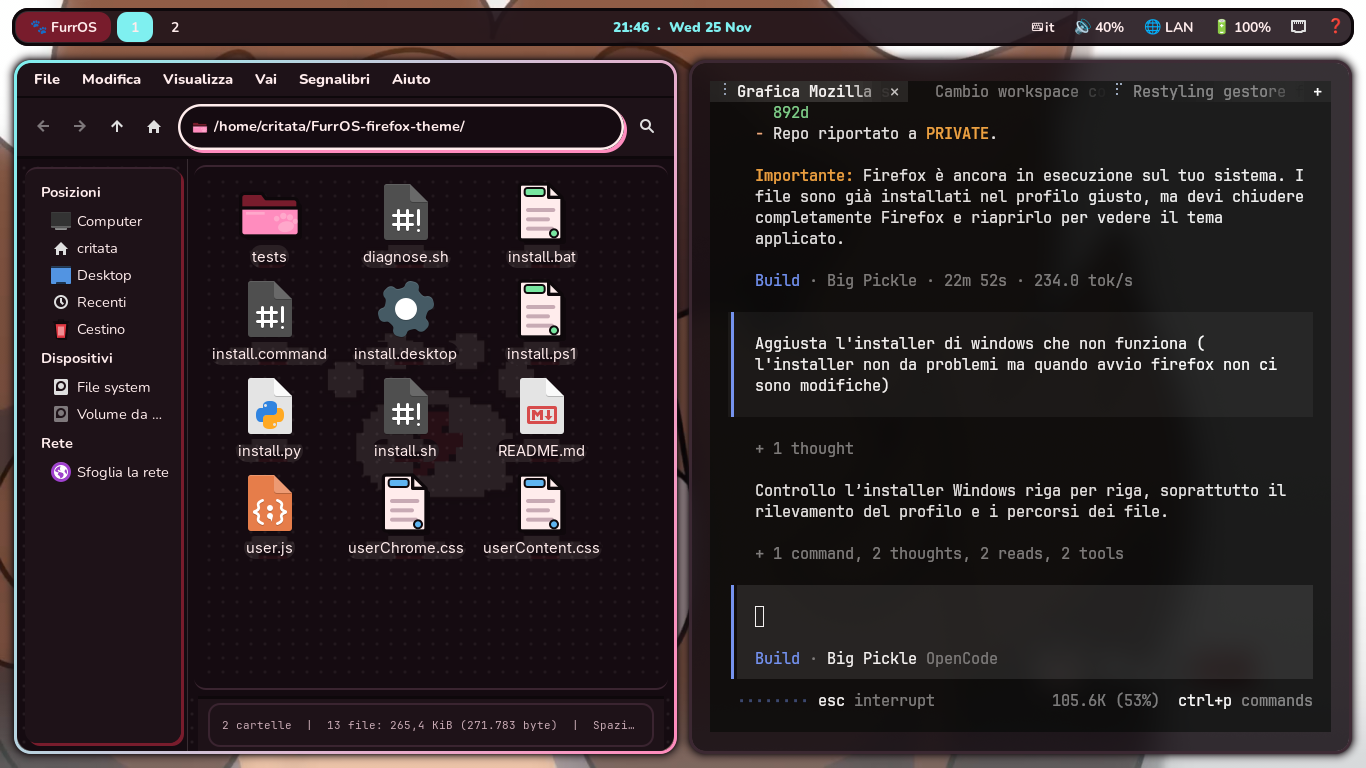
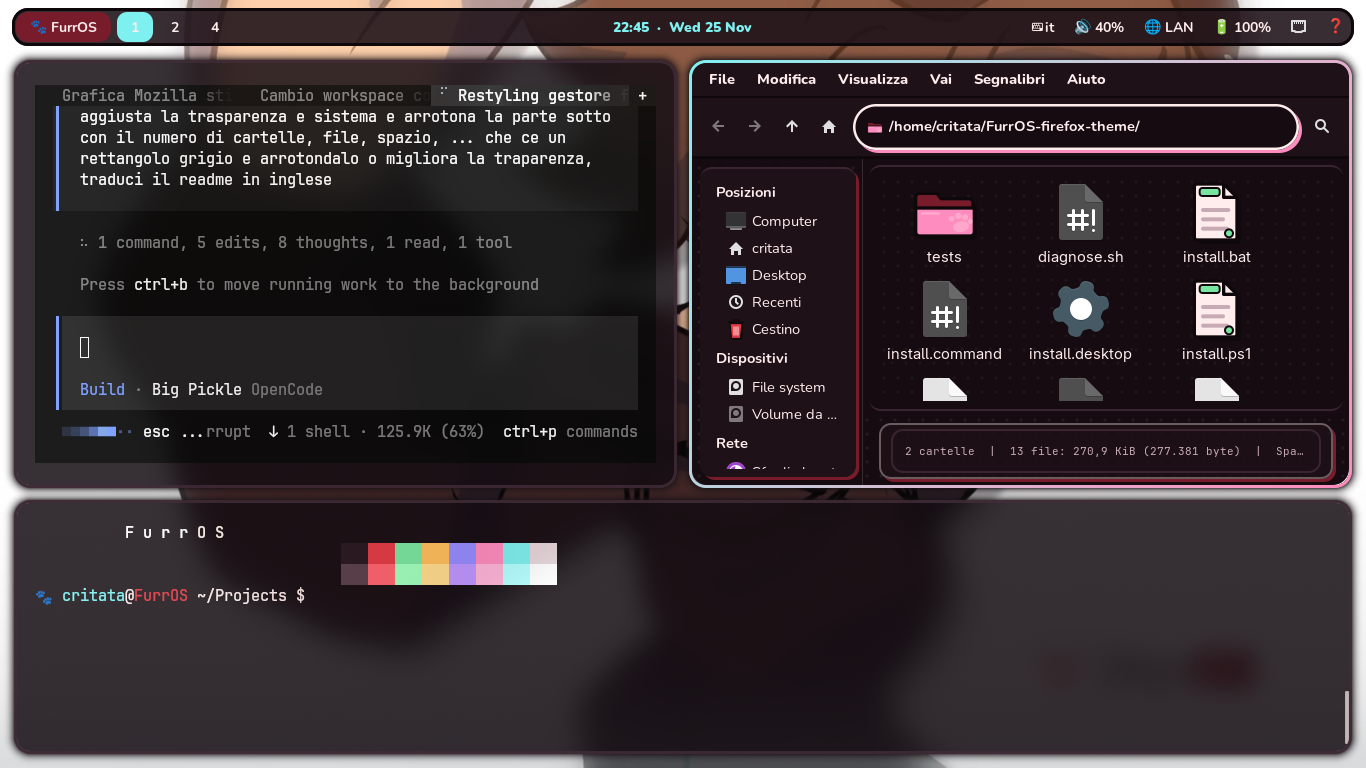
Fix selection rendering, remove filename watermark, round info area, translate README to English

diff --git a/gtk3/gtk-3.0/gtk.css b/gtk3/gtk-3.0/gtk.css
@@ -436,11 +436,9 @@ iconview.view:selected,
   color: @furr_ink;
 }
 
-treeview.view:hover,
-iconview.view:hover,
-.view:hover {
-  background-color: @furr_surface;
-}
+/* Nessun :hover sull'intera vista: in GTK3 colpisce il widget intero e fa
+   "saltare" l'evidenziazione delle righe. L'hover delle singole righe è
+   gestito da GTK, qui lasciamo solo :selected. */
 
 treeview.view:focus,
 iconview.view:focus,
@@ -460,7 +458,8 @@ iconview.view:selected label,
 }
 
 /* Thunar's standard view is the scrolled window around the file list.
-   It gets a "paper" card with the website's dot texture and a faint paw. */
+   Nessun watermark o immagine sotto i nomi dei file: solo la texture a punti,
+   mantenuta molto leggera per non confondere testo e selezione. */
 .standard-view {
   background-color: @furr_night;
   border: 2px solid @furr_surface_2;
@@ -474,12 +473,9 @@ iconview.view:selected label,
 .standard-view iconview.view,
 .standard-view treeview.view {
   background-color: @furr_night;
-  background-image:
-    radial-gradient(circle, alpha(@furr_text, 0.06) 1px, transparent 1.6px),
-    url("assets/furros-watermark.png");
-  background-size: 14px 14px, 260px 260px;
-  background-position: 0 0, center 45%;
-  background-repeat: repeat, no-repeat;
+  background-image: radial-gradient(circle, alpha(@furr_text, 0.05) 1px, transparent 1.6px);
+  background-size: 14px 14px;
+  background-repeat: repeat;
   border-radius: 12px;
 }
 
@@ -493,13 +489,18 @@ iconview.view:selected label,
   color: @furr_dim;
 }
 
-.preview-pane {
-  background-color: @furr_surface;
+/* Pannello informazioni sotto le voci della sidebar: niente rettangolo grigio. */
+.preview-pane,
+.sidebar .preview-pane,
+.side-pane .preview-pane {
+  background-color: alpha(@furr_surface, 0.55);
   color: @furr_text;
-  border-left: 2.5px solid @furr_paper;
-  border-radius: 0 14px 14px 0;
-  margin: 6px 8px 6px 0;
-  box-shadow: 3px 3px 0 @furr_pink;
+  border: 2px solid alpha(@furr_paper, 0.35);
+  border-left-width: 2.5px;
+  border-radius: 12px;
+  margin: 6px;
+  padding: 6px;
+  box-shadow: none;
 }
 
 treeview.view header,
@@ -567,7 +568,22 @@ treeview.sidebar {
 treeview.sidebar:selected {
   background-color: @furr_paper;
   color: @furr_ink;
-  box-shadow: inset 3px 0 0 @furr_pink;
+  box-shadow: none;
+}
+
+/* Frame/viewport interni della sidebar: niente sfondo grigio opaco. */
+.sidebar frame,
+.sidebar .frame,
+.sidebar viewport,
+.sidebar .viewport,
+.sidebar box,
+#thunar-side-pane frame,
+#thunar-side-pane viewport,
+.side-pane frame,
+.side-pane viewport {
+  background-color: transparent;
+  border: 0;
+  box-shadow: none;
 }
 
 .sidebar label,
@@ -588,9 +604,12 @@ treeview.sidebar:selected {
    -------------------------------------------------------------------------- */
 statusbar,
 .statusbar {
-  background-color: @furr_plum;
+  background-color: alpha(@furr_plum, 0.82);
   color: @furr_dim;
-  border-top: 3px solid @furr_ink;
+  border: 2px solid alpha(@furr_paper, 0.35);
+  border-radius: 12px;
+  box-shadow: 3px 3px 0 @furr_maroon;
+  margin: 6px;
   padding: 4px 10px;
   font-family: "JetBrains Mono", ui-monospace, monospace;
   font-size: 11px;

diff --git a/README.md b/README.md
@@ -1,31 +1,30 @@
 # FurrOS Thunar Theme
 
-Tema GTK3 per **Thunar** che replica il design system di [FurrOS](https://furros.xyz/)
-e del tema Firefox FurrOS: palette scura, bordi "sticker", chip arrotondati,
-zampina e icone coordinate.
+A GTK3 theme for **Thunar** that reproduces the [FurrOS](https://furros.xyz/)
+design system and the matching Firefox theme: dark surfaces, chunky sticker
+outlines, rounded chips, and coordinated file/folder icons.
 
-![Anteprima](docs/thunar-preview.png)
+![Preview](docs/thunar-preview.png)
 
-## Contenuto
+## Contents
 
 ```
-gtk3/                       tema GTK3 (adw-gtk3-dark + override FurrOS)
+gtk3/                       GTK3 theme (adw-gtk3-dark + FurrOS overrides)
   gtk-3.0/gtk.css
-  gtk-3.0/assets/furros-watermark.png
   index.theme
-icons/FurrOS-Papirus/       65 icone SVG (cartelle + tipi di file)
-  index.theme               eredita da Papirus-Dark
-  generate.py               rigenera le icone
+icons/FurrOS-Papirus/       65 SVG icons (folders + file types)
+  index.theme               inherits from Papirus-Dark
+  generate.py               regenerates the icons
   scalable/places/
   scalable/mimetypes/
-config/settings.ini.example valori finali di riferimento
-install.sh                  installazione + backup + restart Thunar
-uninstall.sh                ripristino ad Adwaita/Papirus-Dark
+config/settings.ini.example reference values
+install.sh                  install + backup + Thunar restart
+uninstall.sh                restore Adwaita / Papirus-Dark
 ```
 
-## Installazione
+## Install
 
- Su FurrOS/Arch con Thunar 4.20 e `adw-gtk3-dark` installato:
+On FurrOS/Arch with Thunar 4.20 and `adw-gtk3-dark` installed:
 
 ```bash
 git clone https://github.com/Critata/FurrOS-thunar-theme.git
@@ -34,18 +33,18 @@ chmod +x install.sh uninstall.sh
 ./install.sh
 ```
 
-Lo script:
+The installer:
 
-1. copia il tema in `~/.themes/FurrOS`;
-2. copia le icone in `~/.local/share/icons/FurrOS-Papirus`;
-3. fa un backup di `~/.config/gtk-3.0/settings.ini` e
-   `~/.config/gtk-4.0/settings.ini` con suffisso `.bak-DATA-ORA`;
-4. aggiorna solo le chiavi necessarie (`gtk-theme-name`,
-   `gtk-icon-theme-name`, font Nunito, dark mode), lasciando intatte le altre;
-5. applica i valori anche via `gsettings`;
-6. riavvia Thunar se era in esecuzione.
+1. copies the theme to `~/.themes/FurrOS`;
+2. copies the icons to `~/.local/share/icons/FurrOS-Papirus`;
+3. backs up `~/.config/gtk-3.0/settings.ini` and
+   `~/.config/gtk-4.0/settings.ini` with a `.bak-DATE-TIME` suffix;
+4. updates only the required keys (`gtk-theme-name`, `gtk-icon-theme-name`,
+   Nunito font, dark mode), leaving the other settings untouched;
+5. applies the same values through `gsettings`;
+6. restarts Thunar if it was running.
 
-Verifica:
+Verify with:
 
 ```bash
 gsettings get org.gnome.desktop.interface gtk-theme
@@ -54,43 +53,46 @@ gsettings get org.gnome.desktop.interface icon-theme
 # 'FurrOS-Papirus'
 ```
 
-## Disinstallazione
+## Uninstall
 
 ```bash
 ./uninstall.sh
 ```
 
-Riporta `gtk-theme` ad `Adwaita` e `icon-theme` a `Papirus-Dark` e rimuove
-tema e icone. I backup creati da `install.sh` restano nelle rispettive cartelle.
+This resets `gtk-theme` to `Adwaita` and `icon-theme` to `Papirus-Dark`, then
+removes the theme and icons. Backups created by `install.sh` are kept.
 
 ## Palette
 
-| Nome | Colore | Uso |
+| Name | Colour | Used for |
 | --- | --- | --- |
-| night | `#150B11` | sfondo finestre e viste |
-| plum | `#1E1218` | headerbar, toolbar, sidebar |
-| surface | `#2A1A22` | pannelli |
-| surface-2 | `#3A2430` | hover, bottoni |
-| paper | `#FFECEC` | testo, bordi, selezioni |
-| ink | `#0E080B` | ombre, testo su paper |
-| cyan | `#7FF0F0` | focus e accento primario |
-| pink | `#FF8CBE` | accento secondario |
-| red | `#E23A44` | ombre e azioni distruttive |
-| maroon | `#781C2C` | hover e retro cartelle |
+| night | `#150B11` | window and file-view background |
+| plum | `#1E1218` | header bar, toolbar, side pane |
+| surface | `#2A1A22` | panels |
+| surface-2 | `#3A2430` | hovers and buttons |
+| paper | `#FFECEC` | text, borders, selection |
+| ink | `#0E080B` | shadows and text on paper |
+| cyan | `#7FF0F0` | focus and primary accent |
+| pink | `#FF8CBE` | secondary accent |
+| red | `#E23A44` | shadows and destructive actions |
+| maroon | `#781C2C` | hover state and folder backs |
 
-## Dettagli tecnici
+## Implementation notes
 
-- Il CSS importa `/usr/share/themes/adw-gtk3-dark/gtk-3.0/gtk.css` come base:
-  se quel tema non è presente, installa `adw-gtk3-dark` prima di `install.sh`.
-- Thunar usa classi interne come `.sidebar`, `.standard-view`,
-  `.location-button` e `notebook`: sono quelle che permettono di stilizzare
-  pane laterale, area file, breadcrumb e schede senza patchare l'applicazione.
-- Le icone sono SVG scalable, quindi funzionano a qualsiasi dimensione;
-  `generate.py` non richiede dipendenze oltre a Python 3.
-- Il watermark `furros-watermark.png` è ricavato dal logo FurrOS di sistema
-  con opacità molto bassa (~9%) per non interferire con la leggibilità.
+- The CSS imports `/usr/share/themes/adw-gtk3-dark/gtk-3.0/gtk.css` as a base.
+  Install `adw-gtk3-dark` first if it is missing.
+- Thunar exposes internal style classes such as `.sidebar`, `.standard-view`,
+  `.location-button` and `notebook`. They make it possible to style the side
+  pane, file area, breadcrumbs and tabs without patching the application.
+- There is deliberately **no image watermark behind file names**: the file
+  view only has a very light dot texture, so selection stays readable.
+- The information area below the side-pane places uses translucent surfaces
+  (`alpha(...)`) and 12 px rounded corners instead of the default grey box.
+- Icons are scalable SVG and work at any size. `generate.py` needs only
+  Python 3.
 
-## Crediti
+## Credits
 
-Design e colori: [furros.xyz](https://furros.xyz/). Base GTK: `adw-gtk3-dark`.
-Forma delle icone ispirata a Papirus. Nessun file del profilo Firefox è incluso.
+Design and colours: [furros.xyz](https://furros.xyz/). GTK base:
+`adw-gtk3-dark`. Icon shapes inspired by Papirus. No Firefox profile files
+are included.
